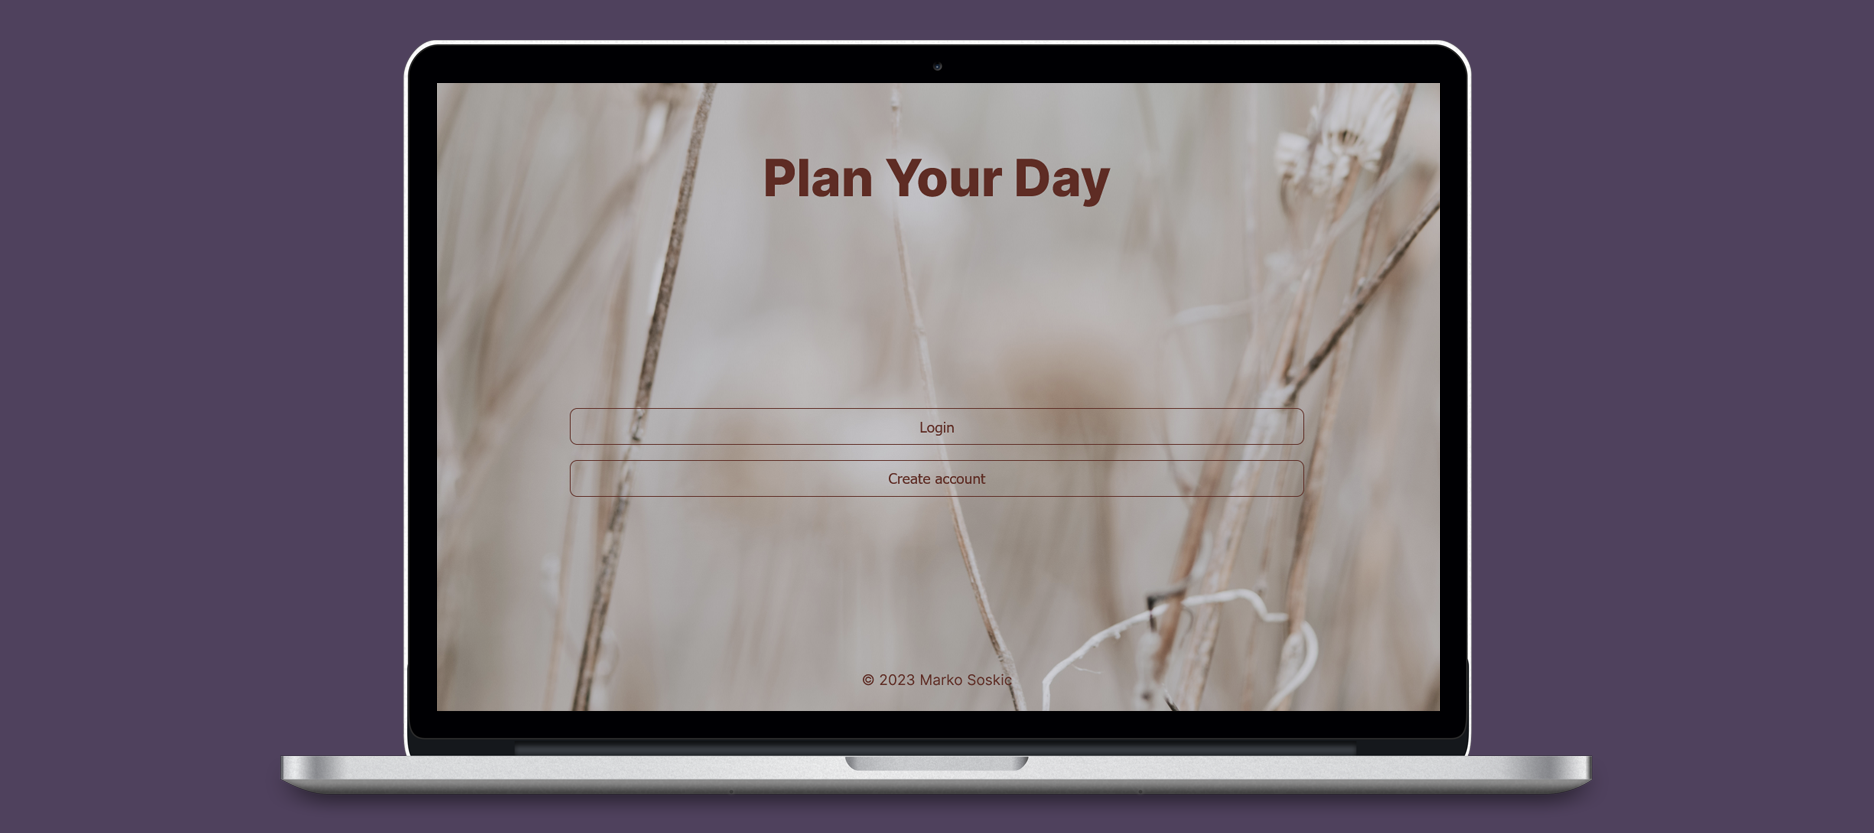
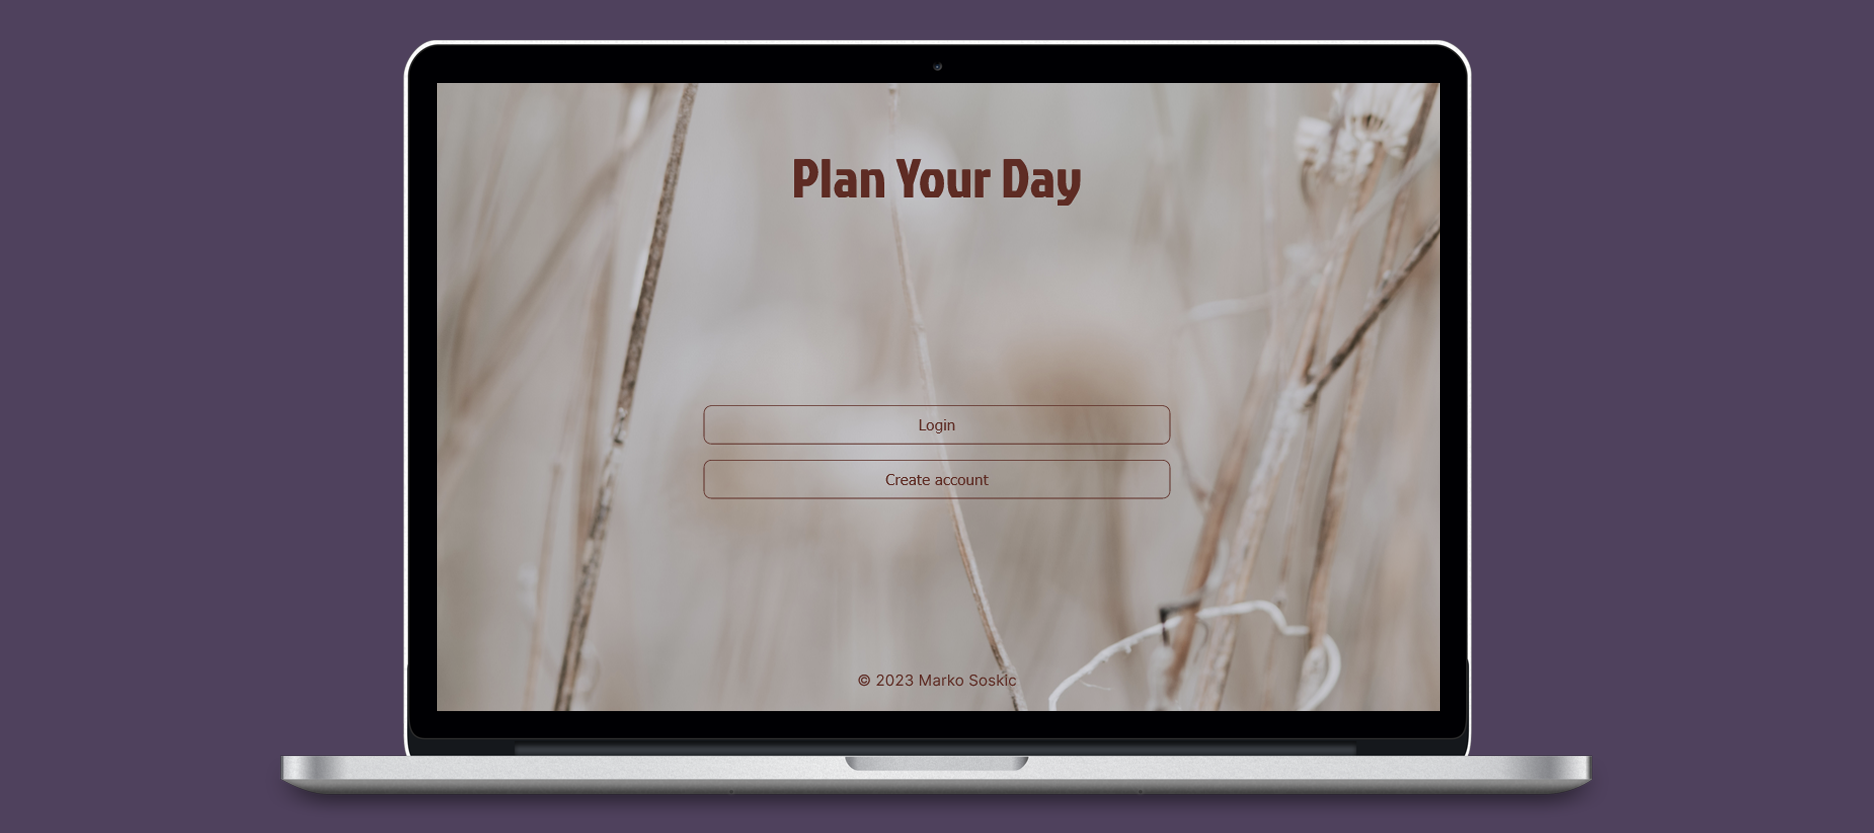
Update fonts and mock-ups

diff --git a/public/css/planner-styles.css b/public/css/planner-styles.css
@@ -30,12 +30,14 @@ header {
 }
 
 header h1 {
+    font-family: 'Jockey One', sans-serif;
     font-size: 4.5vmax;
     margin-bottom: 2vmax;
     margin-top: 2vmax;
 }
 
 header h3 {
+    font-family: 'Jockey One', sans-serif;
     font-size: 1.5vmax;
 }
 
@@ -75,16 +77,19 @@ form {
 
 .column-one h3 {
     color: #5e2c24;
+    font-family: 'Jockey One', sans-serif;
     font-size: 2vmax;
 }
 
 .column-two h3 {
     color: #5e2c24;
+    font-family: 'Jockey One', sans-serif;
     font-size: 2vmax;
 }
 
 .column-three h3 {
     color: #5e2c24;
+    font-family: 'Jockey One', sans-serif;
     font-size: 2vmax;
 }
 

diff --git a/public/css/styles.css b/public/css/styles.css
@@ -47,6 +47,7 @@ header {
 }
 
 header h1 {
+    font-family: 'Jockey One', sans-serif;
     font-size: 3.5vmax;
     transition: ease-in-out 3s;
 }
@@ -66,7 +67,7 @@ main h3 {
 
 form {
     margin: 0;
-    width: 50%;
+    width: 30%;
 }
 
 input {
@@ -167,6 +168,7 @@ a {
 
     form {
         margin: 0;
+        width: 50%;
     }
 
     input,
